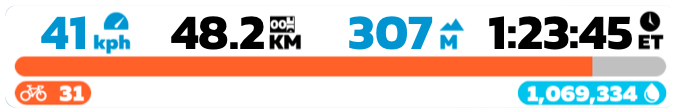
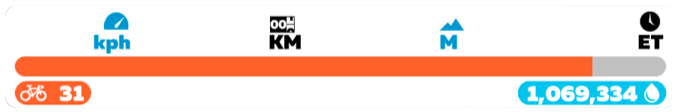
Added top-level stats for editing

diff --git a/src/components/app.js b/src/components/app.js
@@ -36,6 +36,10 @@ function App() {
     const [powerup, setPowerup] = useState('')
     const [rpm, setRpm] = useState(randomRpm())
     const [bpm, setBpm] = useState(randomBpm())
+    const [kph, setKph] = useState('41')
+    const [distance, setDistance] = useState('48.2')
+    const [elevation, setElevation] = useState('307')
+    const [duration, setDuration] = useState('1:23:45')
     
     const [composition, setComposition] = useState(null)
 
@@ -76,7 +80,25 @@ function App() {
         // Top bar with distance, time etc
         ctx.drawImage(uiImages[0], 620, 20)
         ctx.fillStyle = "#fff";
+        ctx.font = canvasFont(50)
+        ctx.textAlign = 'right';
+
+        // Speed
+        ctx.fillStyle = "#0095d1";
+        ctx.fillText(Math.min(Math.abs(kph)),708,69)
+
+        // Distance
+        ctx.fillStyle = "#000";
+        ctx.fillText(distance,884,69)
+
+        // Elevation
+        ctx.fillStyle = "#0095d1";
+        ctx.fillText(Math.min(Math.abs(elevation)),1051,69)
         
+        // Duration
+        ctx.fillStyle = "#000";
+        ctx.fillText(duration,1252,69)
+
         // Power box
         ctx.drawImage(uiImages[1], 20, 20)
         ctx.fillStyle = "#fff";
@@ -166,6 +188,10 @@ function App() {
     function onPowerupChanged(value) { setPowerup(value) }
     function onBpmChanged(value) { setBpm(value) }
     function onRpmChanged(value) { setRpm(value) }
+    function onKphChanged(value) { setKph(value) }
+    function onDistanceChanged(value)  { setDistance(value) }
+    function onElevationChanged(value) { setElevation(value) }
+    function onDurationChanged(value) { setDuration(value) }
         
     function onFormSubmit(e) {
         e.preventDefault()
@@ -224,6 +250,31 @@ function App() {
                                 <Label>BPM:</Label>
                                 <input type="number" min="0" max="300" step="1" value={bpm}
                                        onChange={(e) => onBpmChanged(e.target.value)}
+                                       className="bg-gray-700 text-white p-1 rounded"/>
+                            </div>
+                        </div>
+                        <div className="md:flex md:border-b border-gray-600 md:mb-2">
+                            <div className="pr-6 mb-2">
+                                <Label>KPH:</Label>
+                                <input type="number" min="0" max="2000" step="1" value={kph}
+                                       onChange={(e) => onKphChanged(e.target.value)}
+                                       className="bg-gray-700 text-white p-1 rounded"/>
+                            </div>
+                            <div className="pr-6 mb-2">
+                                <Label>Distance:</Label>
+                                <input type="text" value={distance} onChange={(e) => onDistanceChanged(e.target.value)}
+                                       className="bg-gray-700 text-white p-1 rounded"/>
+                            </div>
+                            <div className="pr-6 mb-2">
+                                <Label>Elevation:</Label>
+                                <input type="number" min="0" max="2000" step="1" value={elevation}
+                                       onChange={(e) => onElevationChanged(e.target.value)}
+                                       className="bg-gray-700 text-white p-1 rounded"/>
+                            </div>
+                            <div className="pr-6 mb-2">
+                                <Label>Duration:</Label>
+                                <input type="text" value={duration}
+                                       onChange={(e) => onDurationChanged(e.target.value)}
                                        className="bg-gray-700 text-white p-1 rounded"/>
                             </div>
                         </div>
